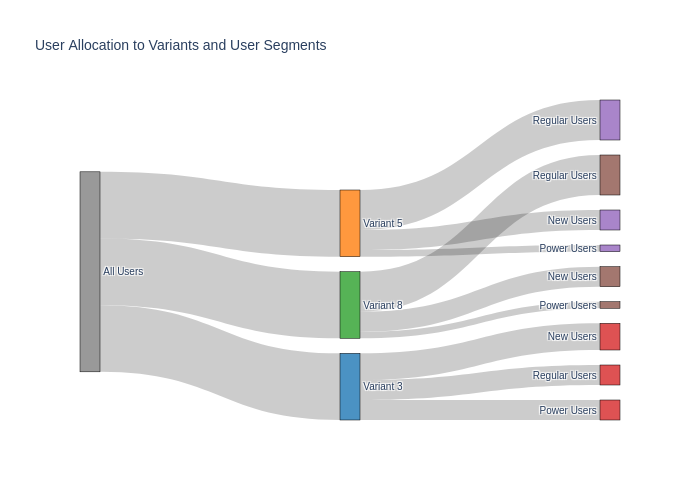
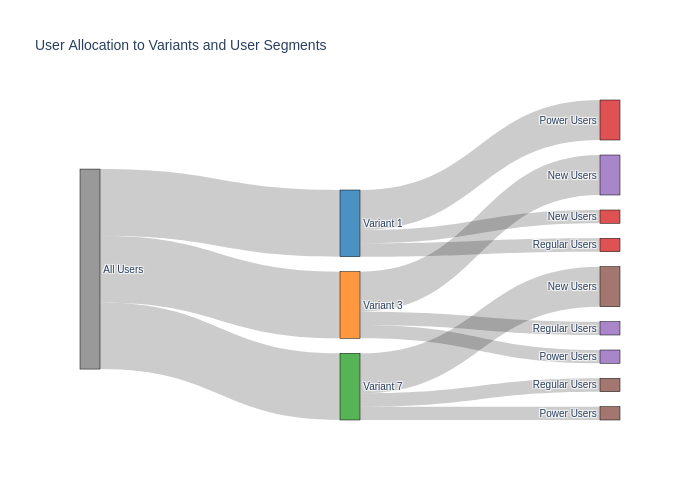
Update ab_testing

diff --git a/source/examples/content/backend/ab_testing.py b/source/examples/content/backend/ab_testing.py
@@ -1,122 +1,54 @@
-import gurobipy as gp
-from gurobipy import GRB
-import plotly.graph_objects as go
+from gurobipy import Model, GRB, quicksum
+import pandas as pd
 
-# Data
-user_segments = ["New Users", "Regular Users", "Power Users"]
-total_users = [1000, 1500, 500]
-disruption = [
-    [3, 4, 2, 5, 3, 4, 2, 3, 5, 4],
-    [2, 1, 3, 2, 1, 2, 3, 1, 2, 3],
-    [1, 2, 1, 3, 2, 1, 1, 2, 3, 2]
-]
+# Load the data from the CSV file
+file_path = '/mnt/data/ab_testing.csv'
+data = pd.read_csv(file_path)
 
-# Initialize model
-model = gp.Model("AB_Test_Optimization")
+# Extract relevant data
+segments = data['User Segment'].tolist()
+variants = [f"V{i}" for i in range(1, 11)]
+users = data['Total Users'].tolist()
+disruption = data.iloc[:, 2:].values
+
+# Create a new model
+model = Model("A/B Testing Variant Selection")
 
 # Decision variables
-x = model.addVars(10, vtype=GRB.BINARY, name="x")
-y = model.addVars(3, 10, vtype=GRB.CONTINUOUS, name="y")
-slack = model.addVars(3, 10, 10, vtype=GRB.CONTINUOUS, name="slack")
+x = model.addVars(variants, vtype=GRB.BINARY, name="x")
+y = model.addVars(segments, variants, vtype=GRB.CONTINUOUS, name="y")
 
-# Objective function
-model.setObjective(
-    gp.quicksum(disruption[i][j] * y[i,j] for i in range(3) for j in range(10)) +
-    gp.quicksum(slack[i,j,k] for i in range(3) for j in range(10) for k in range(j+1, 10)),
-    GRB.MINIMIZE
-)
+# Objective: Minimize total disruption
+model.setObjective(quicksum(disruption[s, v] * y[segments[s], variants[v]]
+                            for s in range(len(segments))
+                            for v in range(len(variants))), GRB.MINIMIZE)
 
-# Constraints
-# 1. Selection constraint
-model.addConstr(gp.quicksum(x[j] for j in range(10)) == 3)
+# Constraint 1: Select exactly 3 variants
+model.addConstr(quicksum(x[v] for v in variants) == 3, name="SelectThreeVariants")
 
-# 2. Allocation constraint
-for i in range(3):
-    model.addConstr(gp.quicksum(y[i,j] for j in range(10)) == total_users[i])
+# Constraint 2: Minimum users for each chosen variant
+for s in range(len(segments)):
+    for v in range(len(variants)):
+        model.addConstr(y[segments[s], variants[v]] >= 100 * x[variants[v]],
+                        name=f"MinUsers_{segments[s]}_{variants[v]}")
 
-# 3. Minimum users for statistical significance
-for i in range(3):
-    for j in range(10):
-        model.addConstr(y[i,j] >= 100 * x[j])
+# Constraint 3: Allocate all users in each segment
+for s in range(len(segments)):
+    model.addConstr(quicksum(y[segments[s], variants[v]] for v in range(len(variants))) == users[s],
+                    name=f"AllocateAllUsers_{segments[s]}")
 
-# 4. Relaxed Balance constraint
-for i in range(3):
-    for j in range(10):
-        for k in range(j+1, 10):
-            model.addConstr(y[i,j] - y[i,k] <= 300 + slack[i,j,k])
-            model.addConstr(y[i,k] - y[i,j] <= 300 + slack[i,j,k])
+# Constraint 4: Balance constraint between any two variants
+for s in range(len(segments)):
+    for v1 in range(len(variants)):
+        for v2 in range(v1 + 1, len(variants)):
+            model.addConstr(y[segments[s], variants[v1]] - y[segments[s], variants[v2]] <= 300,
+                            name=f"Balance_{segments[s]}_{variants[v1]}_{variants[v2]}")
+            model.addConstr(y[segments[s], variants[v2]] - y[segments[s], variants[v1]] <= 300,
+                            name=f"Balance_{segments[s]}_{variants[v2]}_{variants[v1]}")
 
-# 5. Linking constraints
-for i in range(3):
-    for j in range(10):
-        model.addConstr(y[i,j] <= total_users[i] * x[j])
-
-# Optimize model
+# Optimize the model
 model.optimize()
 
-# Extract results
-selected_variants = [j+1 for j in range(10) if x[j].x > 0.5]
-allocation = [[y[i,j].x for j in range(10)] for i in range(3)]
-
-# Data from the optimization result
-user_segments = ["New Users", "Regular Users", "Power Users"]
-selected_variants = [3, 5, 8]
-allocation = [
-    [0, 0, 400, 0, 300, 0, 0, 300, 0, 0],
-    [0, 0, 300, 0, 600, 0, 0, 600, 0, 0],
-    [0, 0, 300, 0, 100, 0, 0, 100, 0, 0]
-]
-
-# Create labels for the Sankey diagram
-labels = ["All Users"] + [f"Variant {v}" for v in selected_variants] + user_segments * len(selected_variants)
-
-# Create sources and targets
-sources = [0] * len(selected_variants)  # All users to each variant
-targets = list(range(1, len(selected_variants) + 1))  # Variants
-
-# Add sources and targets for user segments
-for i, variant in enumerate(selected_variants):
-    for j in range(len(user_segments)):
-        sources.append(i + 1)
-        targets.append(len(selected_variants) + len(user_segments) * i + j + 1)
-
-# Create values (counts)
-values = [sum(allocation[j][variant-1] for j in range(len(user_segments))) for variant in selected_variants]
-for i, variant in enumerate(selected_variants):
-    for j in range(len(user_segments)):
-        values.append(allocation[j][variant-1])
-
-# Assign colors to ensure user segments have the same color
-color_dict = {
-    "All Users": "rgba(128, 128, 128, 0.8)",
-    "Variant 3": "rgba(31, 119, 180, 0.8)",
-    "Variant 5": "rgba(255, 127, 14, 0.8)",
-    "Variant 8": "rgba(44, 160, 44, 0.8)",
-    "New Users": "rgba(214, 39, 40, 0.8)",
-    "Regular Users": "rgba(148, 103, 189, 0.8)",
-    "Power Users": "rgba(140, 86, 75, 0.8)"
-}
-
-colors = [color_dict["All Users"]] + [color_dict[f"Variant {v}"] for v in selected_variants]
-for segment in user_segments:
-    colors += [color_dict[segment]] * len(selected_variants)
-
-# Create the Sankey diagram
-fig = go.Figure(data=[go.Sankey(
-    node=dict(
-        pad=15,
-        thickness=20,
-        line=dict(color="black", width=0.5),
-        label=labels,
-        color=colors
-    ),
-    link=dict(
-        source=sources,
-        target=targets,
-        value=values
-    ))])
-
-fig.update_layout(title_text="User Allocation to Variants and User Segments", font_size=10)
-
-# Save the figure as a PNG file
-fig.write_image("sankey_diagram.png")
+# Extract the results
+selected_variants = [v for v in variants if x[v].x > 0.5]
+allocation = {segments[s]: {variants[v]: y[segments[s], variants[v]].x for v in range(len(variants))} for s in range(len(segments))}

diff --git a/source/examples/content/backend/ab_testing.rst b/source/examples/content/backend/ab_testing.rst
@@ -1,0 +1,68 @@
+.. raw:: html
+
+    <h2>🔢 Problem Definition</h2>
+
+Let's define the problem as follows:
+
+.. raw:: html
+
+    <h3>Sets</h3>
+
+- **S**: Set of user segments, where S = {New Users, Regular Users, Power Users}.
+- **V**: Set of variants, where V = {V1, V2, ..., V10}.
+
+.. raw:: html
+
+    <h3>Parameters</h3>
+
+- **U_s**: Total number of users in segment *s* ∈ S.
+- **D_{s,v}**: Disruption for user segment *s* with variant *v*.
+
+.. raw:: html
+
+    <h3>Decision Variables</h3>
+
+- **x_v**: Binary variable indicating whether variant *v* is selected (x_v = 1) or not (x_v = 0).
+- **y_{s,v}**: Number of users in segment *s* allocated to variant *v*.
+
+.. raw:: html
+
+    <h3>Objective</h3>
+
+Minimize the total disruption:
+
+.. math::
+
+   \text{Minimize} \quad \sum_{s \in S} \sum_{v \in V} D_{s,v} \cdot y_{s,v}
+
+.. raw:: html
+
+    <h3>Constraints</h3>
+
+1. **Selection Constraint**: Choose exactly 3 out of 10 possible variants:
+
+   .. math::
+
+      \sum_{v \in V} x_v = 3
+
+2. **Minimum Users Constraint**: Each chosen variant must have at least 100 users in each user segment:
+
+   .. math::
+
+      y_{s,v} \geq 100 \times x_v, \quad \forall s \in S, v \in V
+
+3. **Total Users Constraint**: Make sure all users from each segment are allocated:
+
+   .. math::
+
+      \sum_{v \in V} y_{s,v} = U_s, \quad \forall s \in S
+
+4. **Balance Constraint**: Within each user segment, the difference of allocation between any two chosen variants cannot be more than 300:
+
+   .. math::
+
+      y_{s,v_1} - y_{s,v_2} \leq 300, \quad \forall s \in S, v_1 \in V, v_2 \in V
+
+   .. math::
+
+      y_{s,v_2} - y_{s,v_1} \leq 300, \quad \forall s \in S, v_1 \in V, v_2 \in V

diff --git a/source/examples/backend.rst b/source/examples/backend.rst
@@ -57,7 +57,11 @@ upholding statistical significance.
       .. literalinclude:: content/backend/ab_testing.csv
          :language: text
 
-   .. tab:: Example generated model
+   .. tab:: Generated Model formulation
+
+      .. include:: content/backend/ab_testing.rst
+
+   .. tab:: Generated Python code
 
       .. literalinclude:: content/backend/ab_testing.py
          :language: python
